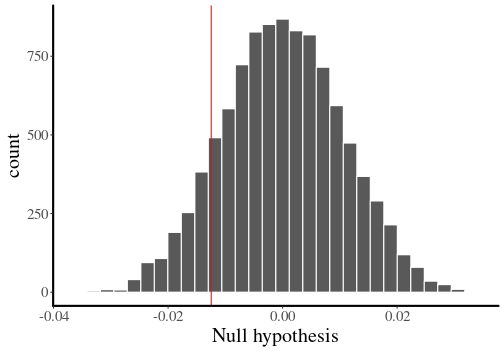
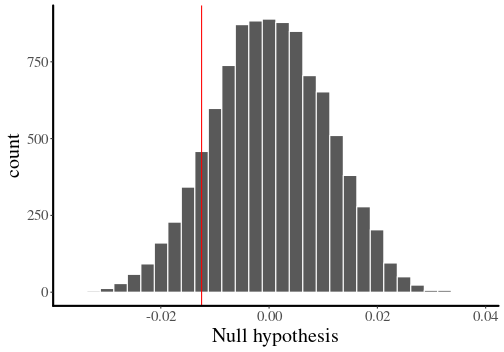
updated modules 3 and 4

diff --git a/Slides/Module4.html b/Slides/Module4.html
@@ -3,18 +3,17 @@
   <head>
     <title>Module 4: Inference on a normal population</title>
     <meta charset="utf-8" />
-    <meta name="author" content="Jake Ferguson" />
+    <meta name="author" content="Jake Ferguson (jakeferg@hawaii.edu)" />
     <link href="libs/remark-css-0.0.1/default.css" rel="stylesheet" />
     <link href="libs/remark-css-0.0.1/metropolis.css" rel="stylesheet" />
     <link href="libs/remark-css-0.0.1/metropolis-fonts.css" rel="stylesheet" />
-    <link rel="stylesheet" href="Title.css" type="text/css" />
   </head>
   <body>
     <textarea id="source">
 class: center, middle, inverse, title-slide
 
 # Module 4: Inference on a normal population
-### Jake Ferguson
+### Jake Ferguson (<a href="mailto:jakeferg@hawaii.edu" class="email">jakeferg@hawaii.edu</a>)
 
 ---
 
@@ -55,7 +54,7 @@ A variable whose outcome depends on a random phenomenon is called a **random var
 
 
 ```r
-x &lt;- sample(1:20, 100, replace=T)
+x &lt;- sample(x=1:20, size=100, replace=T)
 ```
 
 &lt;img src="Module4_files/figure-html/unnamed-chunk-4-1.png" width="60%" style="display: block; margin: auto;" /&gt;
@@ -70,7 +69,7 @@ Many measurements we make and statistics are  a sum of random variables.
 ```r
 x &lt;- numeric(10000)
 for(i in 1:10000) {
-  x[i] &lt;- sum(sample(1:20, 100, replace=T))
+  x[i] &lt;- sum(sample(x=1:20, size=100, replace=T))
 }
 ```
 
@@ -108,7 +107,7 @@ mean(x)
 ```
 
 ```
-## [1] 1049.145
+## [1] 1049.694
 ```
 
 ```r
@@ -116,7 +115,7 @@ var(x)
 ```
 
 ```
-## [1] 3327.809
+## [1] 3257.462
 ```
 
 ```r
@@ -124,7 +123,7 @@ sd(x) #sqrt(var)
 ```
 
 ```
-## [1] 57.68716
+## [1] 57.07418
 ```
 
 ---
@@ -523,35 +522,6 @@ if (window.HTMLWidgets) slideshow.on('afterShowSlide', function (slide) {
   }
   preParents.forEach(p => p.classList.add("remark-code-has-line-highlighted"));
 })(document);</script>
-<!--- https://www.garrickadenbuie.com/blog/xaringan-tip-logo-all-slides/ -->
-
-<style>
-  .logo {
-    background-image: url(CWS_logo.png);
-    background-size: contain;
-    background-repeat: no-repeat;
-    position: absolute;
-    top: 0em;
-    right: 1em;
-    width: 85px;
-    height: 85px;
-    z-index: 0;
-  }
-</style>
-  
-  <script>
-  document
-.querySelectorAll(
-  '.remark-slide-content' +
-    ':not(.title-slide)' +
-    // add additional classes to exclude here, e.g.
-  // ':not(.inverse)' +
-    ':not(.hide-logo)'
-)
-.forEach(el => {
-  el.innerHTML += '<div class="logo"></div>';
-});
-</script>
 
 <script>
 (function() {

diff --git a/Slides/Module3.html b/Slides/Module3.html
@@ -125,13 +125,13 @@ This is equivalent to randomly changing the sign of the difference (+/-)
 
 &lt;br&gt;
 
-* Calculate your statistic of interest (e.g., `\(\bar{x}_{Before} - \bar{x}_{After}\)`)
+* Calculate your statistic of interest (e.g., `\(\overline{x_{After} - x_{Before}}\)`)
 
 &lt;br&gt;
 
 1. Randomly assign each observation to one of the treatments (Before/After) (for a paired t-test this equivalent to multiplying by +1 or -1 with equal probability)
 
-2. Calculate your new statistic of interest (e.g., `\(\bar{x}_{Before} - \bar{x}_{After}\)`) under `\(H_0\)`. Save result.
+2. Calculate your new statistic of interest (e.g., `\(\overline{x_{After} - x_{Before}}\)`) under `\(H_0\)`. Save result.
 
 3. Go back to 1.
 
@@ -152,7 +152,7 @@ sample(x=c(-1,1), size=10, replace=T) #randomly sample 10 values from -1 and 1
 ```
 
 ```
-##  [1] -1 -1  1  1  1 -1 -1  1 -1  1
+##  [1]  1  1  1 -1 -1 -1 -1 -1  1  1
 ```
 
 Sampling with replacement means that once a value is drawn from the original set, it can be drawn again.
@@ -178,7 +178,7 @@ syntax:
 
 
 ```r
-for (val in sequence)
+for(val in sequence)
 {
   statement to do stuff.
 }
@@ -224,7 +224,7 @@ class: inverse, middle
 ```r
 obs.stat &lt;- mean(diff.dat$Difference) 
 
-null.vec &lt;- vector('numeric', 1e4)
+null.vec &lt;-numeric(1e4)
 for(i in 1:length(null.vec)) {
   multiplier &lt;- sample(x=c(-1,1), size=length(diff.dat$Difference), replace=TRUE)
   null.vec[i] &lt;- mean(diff.dat$Difference*multiplier)
@@ -255,7 +255,7 @@ print(2*p.val) #double this for a two-sided test
 ```
 
 ```
-## [1] 0.2364
+## [1] 0.2314
 ```
 
 &lt;img src="Module3_files/figure-html/unnamed-chunk-15-1.png" style="display: block; margin: auto;" /&gt;
@@ -316,8 +316,7 @@ If we have samples from two populations and want to compare them the recipe is a
 ```r
 hotwings.dat &lt;- read.csv(file="../Data/hotwings.csv")
 ggplot(data=hotwings.dat) +
-  geom_histogram(aes(x=Hotwings), bins=15, col="white") +
-  facet_wrap(~Sex, ncol=1)
+  geom_boxplot(aes(x=Sex, y=Hotwings))
 ```
 
 ![](Module3_files/figure-html/unnamed-chunk-18-1.png)&lt;!-- --&gt;
@@ -349,7 +348,7 @@ print(p.val)
 ```
 
 ```
-## [1] 0.0012
+## [1] 0.002
 ```
 ]
 

diff --git a/Slides/Module5.html b/Slides/Module5.html
@@ -3,7 +3,7 @@
   <head>
     <title>Module 5: Linear regression and ANOVA</title>
     <meta charset="utf-8" />
-    <meta name="author" content="Jake Ferguson" />
+    <meta name="author" content="Jake Ferguson (jakeferg@hawaii.edu)" />
     <link href="libs/remark-css-0.0.1/default.css" rel="stylesheet" />
     <link href="libs/remark-css-0.0.1/metropolis.css" rel="stylesheet" />
     <link href="libs/remark-css-0.0.1/metropolis-fonts.css" rel="stylesheet" />
@@ -14,7 +14,7 @@
 class: center, middle, inverse, title-slide
 
 # Module 5: Linear regression and ANOVA
-### Jake Ferguson
+### Jake Ferguson (<a href="mailto:jakeferg@hawaii.edu" class="email">jakeferg@hawaii.edu</a>)
 
 ---
 
